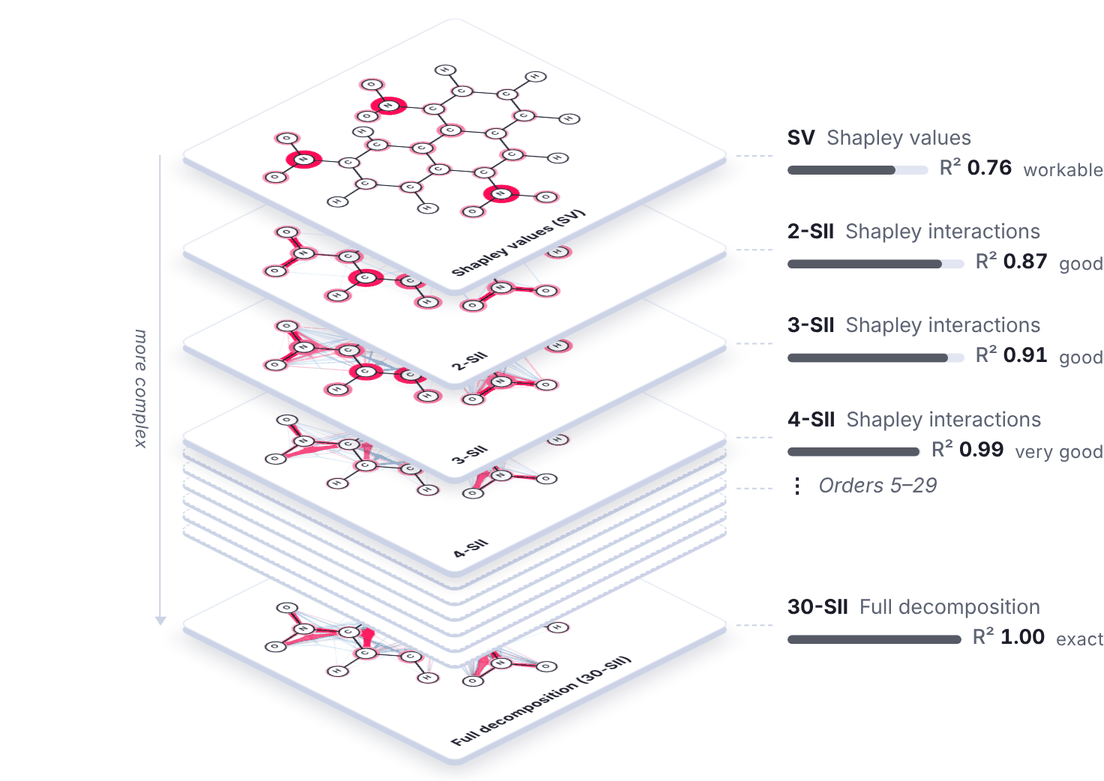
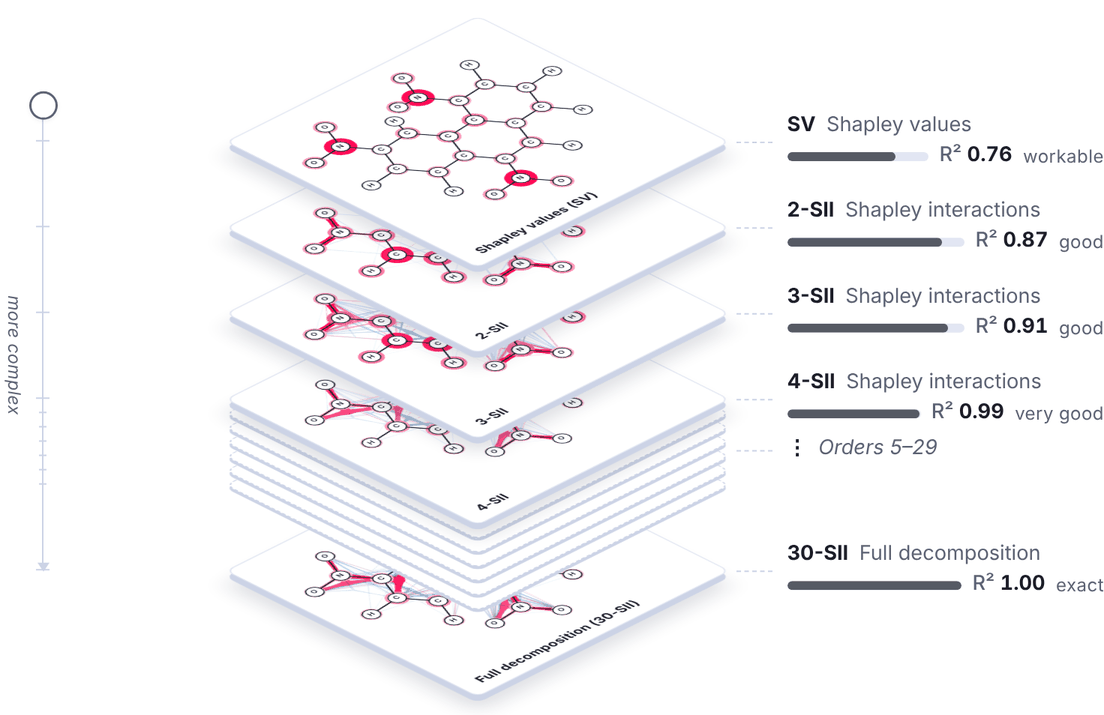
Orders demo: a vertical slider of the orders on the complexity arrow
The arrow beside the stack ("more complex") is now a slider, in a column
of its own left of the stack: a tick at every sheet and a smaller one at
every blank sheet, and a handle that rests above the top sheet. Dragging
it (by mouse or touch) or pressing a tick brings out the sheet there,
which stays out; the arrow keys step through the orders. It replaces the
chips under the stack on touch screens, in a design of its own rather
than the examples' pills. The page, the changelog and the fallback image
follow.

Claude-Session: https://claude.ai/code/session_019qiuyEoqTxUYBXqUZ7PZqM

diff --git a/docs/source/demos/orders/assets/demo.js b/docs/source/demos/orders/assets/demo.js
@@ -17,13 +17,13 @@
 // order n, the number of players; the orders above the highest one with an interaction (the trees'
 // depth, the network's receptive field, the proxy's depth) all equal it. The explanations are
 // precomputed (../compute) into data.js. Pointing at a sheet (hover, keyboard focus on its row, a
-// tap that pins it, or, on touch screens, its chip under the stack) slides it out to the side of the
+// tap that pins it, or the slider beside the stack) slides it out to the side of the
 // stack as it lies, under the sheets above it, and the others stay where they are; with
 // data-lift="lift" on the demo, it lifts out of the stack instead: the sheets above it move up, those
 // below it move down, and the sheet tilts towards the reader and grows. A ring marks its order on the
 // plot; pointing along the plot brings out the sheet of the order pointed at, or the blank sheet of
-// an order between. An arrow beside the stack, and one along the plot's axis, say that the
-// explanations grow more complex from order to order.
+// an order between. The slider is an arrow down the side of the stack, and one along the plot's
+// axis matches it: the explanations grow more complex from order to order.
 //
 // The sheets are drawn in an axonometric view: a square face, turned in its plane and squashed
 // vertically, so that every corner of every sheet is known here exactly. The script uses them to
@@ -63,6 +63,11 @@
   // stay where they are (unless data-lift="lift" on the demo lifts it out): how far it slides, in
   // units of its width
   const SLIDE = 0.32;
+  // pixels: the column of the slider, left of the stack; its line in it; how far above the top
+  // sheet its handle rests, when no sheet is out
+  const RAIL = 42;
+  const RAIL_LINE = 28;
+  const RAIL_REST = 24;
   const THICKNESS = 4; // pixels: the sheets' edge, below their face
   const PLOT = { height: 176, left: 42, right: 14, top: 14, bottom: 40 }; // pixels
 
@@ -723,15 +728,24 @@
     const stack = el("div", "orders-demo-stack");
     stack.setAttribute("aria-hidden", "true");
     const ladder = el("div", "orders-demo-ladder");
-    // beside the stack, an arrow down: every order below is more complex
+    // beside the stack, in a column of its own, the slider of the orders: an arrow down (every order
+    // below is more complex), a tick at every sheet, and a handle that brings out the sheet at its
+    // tick; it rests above the top sheet. It serves touch screens, where nothing hovers.
     const rail = el("div", "orders-demo-rail");
-    rail.setAttribute("aria-hidden", "true");
-    rail.append(el("span", "orders-demo-rail-label", "more complex"));
+    rail.style.width = `${RAIL}px`;
+    rail.style.setProperty("--orders-rail-line", `${RAIL_LINE}px`);
+    const railLine = el("span", "orders-demo-rail-line");
+    const railLabel = el("span", "orders-demo-rail-label", "more complex");
+    railLabel.setAttribute("aria-hidden", "true");
+    const ticks = el("span", "orders-demo-rail-ticks");
+    ticks.setAttribute("aria-hidden", "true");
+    const thumb = el("span", "orders-demo-thumb");
+    thumb.tabIndex = 0;
+    thumb.setAttribute("role", "slider");
+    thumb.setAttribute("aria-orientation", "vertical");
+    thumb.setAttribute("aria-label", "Order of the explanation");
+    rail.append(railLine, railLabel, ticks, thumb);
     stage.append(rail, stack, ladder);
-    // under the stack, a chip for every sheet: on touch screens, where nothing is pointed at by
-    // hovering, a tap brings it out (the rows of the ladder do the same for keyboards)
-    const steps = el("div", "orders-demo-steps");
-    steps.setAttribute("aria-hidden", "true");
 
     const footer = el("div", "orders-demo-footer");
     const plotBox = el("figure", "orders-demo-plot");
@@ -743,14 +757,14 @@
     const caption = el("p", "orders-demo-caption");
     caption.setAttribute("aria-live", "polite");
     footer.append(plotBox, caption);
-    root.append(bar, stage, steps, footer);
+    root.append(bar, stage, footer);
     root.classList.add("orders-demo-ready");
 
     // the stack, top to bottom: the sheets of order 1 to 4, a blank sheet for every order up to
     // the full decomposition, and the sheet of the full decomposition
     let items = [];
     let rows = [];
-    let chips = [];
+    let stops = []; // the slider's: its rest, then every sheet and blank sheet, top to bottom
     let blankRow = null;
     let marker = null;
     let plotWidth = 0;
@@ -768,7 +782,7 @@
       const ladderWidth = narrow ? Math.max(92, width * 0.3) : Math.min(240, width * 0.3);
       const gap = narrow ? 8 : 28;
       const spread = Math.abs(Math.cos(TURN)) + Math.abs(Math.sin(TURN));
-      const room = width - ladderWidth - gap;
+      const room = width - ladderWidth - gap - RAIL;
       // the room holds the lifted sheet, or the stack and the sheet slid out of it
       const side = Math.max(110, Math.min(360, room / ((slide ? 1 + SLIDE : LIFTED.scale) * spread)));
       const height = (pose) => side * pose.scale * pose.tilt * spread;
@@ -787,7 +801,7 @@
         side,
         slideBy,
         ladderLeft: width - ladderWidth,
-        center: room / 2 + slideBy / 2,
+        center: RAIL + room / 2 + slideBy / 2,
         height: Math.ceil((slide ? rest : Math.max(open, rest)) + 2 * THICKNESS + 16),
         poseHeight: height,
       };
@@ -1005,14 +1019,7 @@
         ladder.append(row);
         return row;
       });
-      chips = example.sheets.map((sheet, i) => {
-        const chip = el("button", "orders-demo-step", sheetName(sheet).tag);
-        chip.type = "button";
-        chip.tabIndex = -1;
-        chip.addEventListener("click", () => toggle(i, null));
-        return chip;
-      });
-      steps.replaceChildren(...chips);
+      ticks.replaceChildren(...items.map((item) => el("span", item.sheet ? "orders-demo-tick" : "orders-demo-tick orders-demo-tick-blank")));
 
       // one row for all blank sheets: the orders between, which the plot shows one by one
       blankRow = null;
@@ -1071,14 +1078,29 @@
         row.setAttribute("aria-pressed", String(lifted && item.index === active));
       });
 
-      chips.forEach((chip, i) => chip.classList.toggle("orders-demo-active", lifted && i === active));
-
-      // the arrow beside the stack at rest, from the middle of its top sheet to that of its bottom
-      // one, left of their left corners
+      // the slider: its stops at the middles of the sheets at rest (without a blank sheet's peek), its
+      // line from its rest down to the bottom sheet, and its handle at the sheet pointed at
       const rest = layout(null);
-      const [top, bottom] = [rest[0].y, rest.at(-1).y];
-      rail.style.transform = `translate(${roundTo(Math.max(18, corners(rest[0])[0][0] - 12), 2)}px, ${roundTo(top, 2)}px)`;
-      rail.style.height = `${roundTo(bottom - top, 2)}px`;
+      stops = [
+        { y: Math.max(10, rest[0].y - RAIL_REST), item: null },
+        ...items.map((item, p) => ({ y: rest[p].y - (item.order === state.blank ? PEEK * g.side : 0), item })),
+      ];
+      const [top, bottom] = [stops[0].y, stops.at(-1).y];
+      railLine.style.transform = `translateY(${roundTo(top, 2)}px)`;
+      railLine.style.height = `${roundTo(bottom - top, 2)}px`;
+      railLabel.style.top = `${roundTo((stops[1].y + bottom) / 2, 2)}px`;
+      [...ticks.children].forEach((tick, p) => {
+        tick.style.transform = `translateY(${roundTo(stops[p + 1].y, 2)}px)`;
+      });
+      const at = stops.findIndex(({ item }) =>
+        item === null ? !lifted && state.blank === null : lifted ? item.index === active : !item.sheet && item.order === state.blank,
+      );
+      thumb.style.transform = `translateY(${roundTo(stops[at].y, 2)}px)`;
+      thumb.classList.toggle("orders-demo-thumb-rest", at === 0);
+      thumb.setAttribute("aria-valuemin", "0");
+      thumb.setAttribute("aria-valuemax", String(stops.length - 1));
+      thumb.setAttribute("aria-valuenow", String(at));
+      thumb.setAttribute("aria-valuetext", at === 0 ? "none" : stopName(stops[at].item));
 
       // the row of the blank sheets: beside the one pointed at, or the middle one; sliding, beside the
       // middle one, where it lies at rest
@@ -1306,6 +1328,40 @@
       }
     }
 
+    // the slider: a stop's name, and bringing out its sheet (the rest puts every sheet back); a sheet
+    // brought out by the slider stays out, as one tapped
+    const stopName = (item) => (item.sheet ? sheetName(item.sheet).name + (item.sheet.order > 1 && !item.sheet.full ? ` of order ${item.order}` : "") : `order ${item.order}`);
+    function slideTo(stop) {
+      state.pinned = stop.item !== null;
+      if (stop.item === null) point(null, null);
+      else if (stop.item.sheet) point(stop.item.index, null);
+      else point(null, stop.item.order);
+    }
+    const stopAt = (clientY) => {
+      const y = clientY - stage.getBoundingClientRect().top;
+      return stops.reduce((best, stop) => (Math.abs(stop.y - y) < Math.abs(best.y - y) ? stop : best), stops[0]);
+    };
+    rail.addEventListener("pointerdown", (event) => {
+      event.preventDefault();
+      rail.setPointerCapture(event.pointerId);
+      rail.classList.add("orders-demo-dragging");
+      slideTo(stopAt(event.clientY));
+    });
+    rail.addEventListener("pointermove", (event) => {
+      if (rail.hasPointerCapture(event.pointerId)) slideTo(stopAt(event.clientY));
+    });
+    for (const type of ["pointerup", "pointercancel"]) {
+      rail.addEventListener(type, () => rail.classList.remove("orders-demo-dragging"));
+    }
+    thumb.addEventListener("keydown", (event) => {
+      const at = Number(thumb.getAttribute("aria-valuenow"));
+      const last = stops.length - 1;
+      const next = { ArrowDown: at + 1, ArrowRight: at + 1, ArrowUp: at - 1, ArrowLeft: at - 1, Home: 0, End: last }[event.key];
+      if (next === undefined) return;
+      event.preventDefault();
+      slideTo(stops[Math.max(0, Math.min(last, next))]);
+    });
+
     // the plot points at an order: the sheet of that order, or its blank sheet
     function pointAtOrder(order) {
       const index = current().sheets.findIndex((sheet) => sheet.order === order);
@@ -1318,7 +1374,7 @@
       return [event.clientX - box.left, event.clientY - box.top];
     };
     stage.addEventListener("pointermove", (event) => {
-      if (event.pointerType !== "mouse" || state.pinned || event.target.closest(".orders-demo-row")) return;
+      if (event.pointerType !== "mouse" || state.pinned || event.target.closest(".orders-demo-row, .orders-demo-rail")) return;
       const item = itemAt(pointer(event));
       if (item?.sheet) point(item.index, null);
       // a blank sheet comes out only from the stack at rest, which it does not change

diff --git a/docs/source/demos/orders/assets/demo.css b/docs/source/demos/orders/assets/demo.css
@@ -464,17 +464,26 @@ body[data-theme="dark"] .orders-demo {
   font-weight: 600;
 }
 
-/* beside the stack, an arrow down from its top sheet to its bottom one (demo.js places it): every
-   order below is more complex */
+/* the slider of the orders, in its column left of the stack (demo.js places its parts): an arrow
+   down, every order below more complex, a tick at every sheet, and a handle on it */
 .orders-demo-rail {
   position: absolute;
+  z-index: 100; /* over the stack, which spans the stage: no sheet comes into the column */
   top: 0;
+  bottom: 0;
   left: 0;
-  border-left: 1px solid var(--orders-edge);
-  pointer-events: none;
+  cursor: pointer;
+  touch-action: none; /* dragging the handle does not scroll the page */
 }
 
-.orders-demo-rail::after {
+.orders-demo-rail-line {
+  position: absolute;
+  top: 0;
+  left: var(--orders-rail-line);
+  border-left: 1px solid var(--orders-edge);
+}
+
+.orders-demo-rail-line::after {
   position: absolute;
   bottom: -1px;
   left: -4.5px;
@@ -486,8 +495,7 @@ body[data-theme="dark"] .orders-demo {
 
 .orders-demo-rail-label {
   position: absolute;
-  top: 50%;
-  right: 0.35rem;
+  left: calc(var(--orders-rail-line) - 1.6rem);
   color: var(--orders-muted);
   font-size: 0.72rem;
   font-style: italic;
@@ -495,52 +503,76 @@ body[data-theme="dark"] .orders-demo {
   white-space: nowrap;
   writing-mode: vertical-rl;
   transform: translateY(-50%);
+  pointer-events: none;
 }
 
-/* under the stack, a chip for every sheet: shown where nothing hovers (touch screens), or where
-   the room is short */
-.orders-demo-steps {
-  display: none;
-  flex-wrap: wrap;
-  justify-content: center;
-  gap: 0.35rem;
-  margin: 0.2rem 0 1rem;
+.orders-demo-tick {
+  position: absolute;
+  top: 0;
+  left: calc(var(--orders-rail-line) - 4px);
+  width: 9px;
+  border-top: 1.5px solid var(--orders-edge);
+  margin-top: -0.75px;
 }
 
-@media (hover: none) {
-  .orders-demo-steps {
-    display: flex;
-  }
+.orders-demo-tick-blank {
+  left: calc(var(--orders-rail-line) - 2px);
+  width: 5px;
+  border-top-width: 1px;
+  margin-top: -0.5px;
 }
 
-@container (max-width: 34rem) {
-  .orders-demo-steps {
-    display: flex;
-  }
-}
-
-.orders-demo-step {
-  padding: 0.3rem 0.75rem;
-  border: 1px solid var(--orders-line);
-  border-radius: 999px;
-  background: var(--orders-raised);
-  color: var(--orders-muted);
-  font: inherit;
-  font-size: 0.82rem;
-  font-weight: 600;
-  font-variant-numeric: tabular-nums;
-  cursor: pointer;
-  touch-action: manipulation;
-  transition:
-    background var(--shapiq-duration, 220ms),
-    border-color var(--shapiq-duration, 220ms),
-    color var(--shapiq-duration, 220ms);
-}
-
-.orders-demo-step.orders-demo-active {
-  border-color: var(--orders-ink);
+.orders-demo-thumb {
+  position: absolute;
+  top: -8px;
+  left: calc(var(--orders-rail-line) - 7.5px);
+  box-sizing: border-box;
+  width: 16px;
+  height: 16px;
+  border: 2px solid var(--orders-sheet);
+  border-radius: 50%;
   background: var(--orders-ink);
-  color: var(--orders-sheet);
+  box-shadow:
+    0 0 0 1px var(--orders-ink),
+    0 1px 4px var(--orders-shade);
+  cursor: grab;
+  transition:
+    transform 320ms var(--orders-ease),
+    background var(--shapiq-duration, 220ms),
+    box-shadow var(--shapiq-duration, 220ms);
+}
+
+/* at rest, above the top sheet, the handle is hollow */
+.orders-demo-thumb-rest {
+  background: var(--orders-sheet);
+  box-shadow:
+    0 0 0 1.5px var(--orders-muted),
+    0 1px 4px var(--orders-shade);
+}
+
+.orders-demo-rail:hover .orders-demo-thumb {
+  scale: 1.12;
+}
+
+.orders-demo-thumb:focus-visible {
+  outline: 2px dashed var(--orders-ink);
+  outline-offset: 3px;
+}
+
+/* while dragged, the handle follows the pointer at once */
+.orders-demo-dragging,
+.orders-demo-dragging .orders-demo-thumb {
+  cursor: grabbing;
+}
+
+.orders-demo-dragging .orders-demo-thumb {
+  transition: none;
+}
+
+@media (prefers-reduced-motion: reduce) {
+  .orders-demo-thumb {
+    transition: none;
+  }
 }
 
 /* the ladder: a row per sheet, beside its right corner, with the sheet's fit */

diff --git a/CHANGELOG.md b/CHANGELOG.md
@@ -2,7 +2,7 @@
 
 ## Development
 
-- adds the demo "From Shapley values to the full decomposition" to the docs: one prediction explained at every order of interaction, as a stack of sheets from the Shapley values (top) over blank sheets for the orders between to the full decomposition, k-SII of order n (bottom; for trees of depth 5, k-SII of order 5, which is already exact), each with its fit to the model (R²), and a plot of the fit by order, whose axis breaks where the orders between equal the full decomposition. Pointing at a sheet (or, on touch screens, tapping its chip) slides it out of the stack and marks its order on the plot; pointing along the plot brings out the sheet of an order. Arrows beside the stack and along the plot's axis say that the explanations grow more complex from order to order. The molecule of GraphSHAP-IQ's Figure 1 is explained exactly with `GraphSHAPIQ` for a GCN trained on Mutagenicity (R² from 0.76 for the Shapley values to 1), one house in Los Angeles, drawn as a tree that grows one level per order (to depth 5, as deep as the model's trees), and a heatmap of 150 houses of California housing with the interventional `TreeExplainer` for an XGBoost model of depth 5 (R² from 0.31, and 0.83 on average, to 1); the same house valued by TabPFN, a black box, explained exactly over all 256 subsets of its features with `TabPFNImputer` (R² from 0.05, exact only at order 8, as the black box has no depth); how SigLIP 2, a black box, matches the photo and caption of the FIxLIP demo is explained with `ProxySHAP` from 10,000 coalitions, sampled as in FIxLIP (every player present with probability 1/2), as the full decomposition of its XGBoost proxy without adjustment (R² from 0.54 to 0.96 on held-out coalitions). An icon names the kind of model of every example: a tree, a graph, or a black box. Any page can embed it with `.. shapiq-demo:: orders`, e.g. as the hero figure of a guide.
+- adds the demo "From Shapley values to the full decomposition" to the docs: one prediction explained at every order of interaction, as a stack of sheets from the Shapley values (top) over blank sheets for the orders between to the full decomposition, k-SII of order n (bottom; for trees of depth 5, k-SII of order 5, which is already exact), each with its fit to the model (R²), and a plot of the fit by order, whose axis breaks where the orders between equal the full decomposition. Pointing at a sheet, or dragging the handle of the slider beside the stack (on touch screens too), slides it out of the stack and marks its order on the plot; pointing along the plot brings out the sheet of an order. The slider is an arrow down, and one along the plot's axis matches it: the explanations grow more complex from order to order. The molecule of GraphSHAP-IQ's Figure 1 is explained exactly with `GraphSHAPIQ` for a GCN trained on Mutagenicity (R² from 0.76 for the Shapley values to 1), one house in Los Angeles, drawn as a tree that grows one level per order (to depth 5, as deep as the model's trees), and a heatmap of 150 houses of California housing with the interventional `TreeExplainer` for an XGBoost model of depth 5 (R² from 0.31, and 0.83 on average, to 1); the same house valued by TabPFN, a black box, explained exactly over all 256 subsets of its features with `TabPFNImputer` (R² from 0.05, exact only at order 8, as the black box has no depth); how SigLIP 2, a black box, matches the photo and caption of the FIxLIP demo is explained with `ProxySHAP` from 10,000 coalitions, sampled as in FIxLIP (every player present with probability 1/2), as the full decomposition of its XGBoost proxy without adjustment (R² from 0.54 to 0.96 on held-out coalitions). An icon names the kind of model of every example: a tree, a graph, or a black box. Any page can embed it with `.. shapiq-demo:: orders`, e.g. as the hero figure of a guide.
 - fixes the `"CHII"` estimates of `SHAPIQ` and `SVARMIQ`, which were wrong even with a budget of all `2**n` coalitions: the Monte Carlo approximators weighted the discrete derivatives with `s / t`, the coefficient of the Moebius representation of the chaining interaction index, instead of its cardinal-index weight `s * (s + t - 1)! * (n - s - t)! / n!`. [#643](https://github.com/mmschlk/shapiq/pull/643)
 - adds GraphSHAP-IQ in `shapiq.graph` for exact Shapley values and interactions of the nodes of graph neural networks (Muschalik et al., 2025). `GraphExplainer` explains `torch_geometric` models with a graph-level output, and `shapiq.Explainer` picks it for models with message passing layers. As for trees, a graph is converted into an internal representation, the `GraphModel` (edges, node features, and the radius of the receptive fields), and the new `GraphBaselineImputer`, a `BaselineImputer` whose players are the nodes, gives absent nodes the baseline node features. `GraphSHAPIQ` computes the values of any game that is local on a graph without `torch`; with `max_interaction_size`, it approximates them with fewer evaluations while keeping them efficient. `torch_geometric` graphs and models need the new extra `shapiq[graph]`. [#550](https://github.com/mmschlk/shapiq/pull/550)
 - adds graph games to `shapiq_games` and `shapiq_benchmark`: `shapiq_games.GraphGame`, the `GraphComputer` of their exact values with GraphSHAP-IQ (chosen by `default_computer` for games that are local on the graph), and `GraphSetup`, which trains a GCN, GIN, or GAT on a TUDataset graph classification dataset (`load_graph_dataset`, e.g. `"MUTAG"` or `"PROTEINS"`). Their exact values are feasible for graphs far beyond the 25 players of brute force. [#550](https://github.com/mmschlk/shapiq/pull/550)

diff --git a/docs/source/demos/orders/index.rst b/docs/source/demos/orders/index.rst
@@ -22,12 +22,12 @@ order more, k-SII :cite:p:`Bordt.2023`: the effects of the players and of all gr
 :math:`k` of them. Blank sheets stand for the orders between order 4 and the bottom sheet, which
 holds the **full decomposition**: k-SII of order :math:`n`, the number of players, which gives every
 group of players its own value, the Möbius transform :cite:p:`Grabisch.1999`; for trees of depth 5,
-k-SII of order 5, which already is. Red raises the prediction,
-blue lowers it; the larger and the more opaque, the stronger. The arrow beside the stack points to
-the more complex explanations: every order below has more values. Point at a sheet to slide it out
-of the stack; on a touch screen, tap it, or its chip under the stack. Above the stack, an icon shows
-the kind of model: a tree for tree ensembles, a graph for graph neural networks, and a black box for
-any other model.
+k-SII of order 5, which already is. Red raises the prediction, blue lowers it; the larger and the
+more opaque, the stronger. The slider beside the stack, an arrow down, points to the more complex
+explanations: every order below has more values. Point at a sheet to slide it out of the stack, or
+drag the slider's handle down through the orders (on a touch screen, tap a sheet or drag the
+handle). Above the stack, an icon shows the kind of model: a tree for tree ensembles, a graph for
+graph neural networks, and a black box for any other model.
 
 **The fit.** An explanation predicts what the model does with only some of the players: the sum of
 the values of their groups. Beside every sheet, :math:`R^2` measures how much of the model's output
